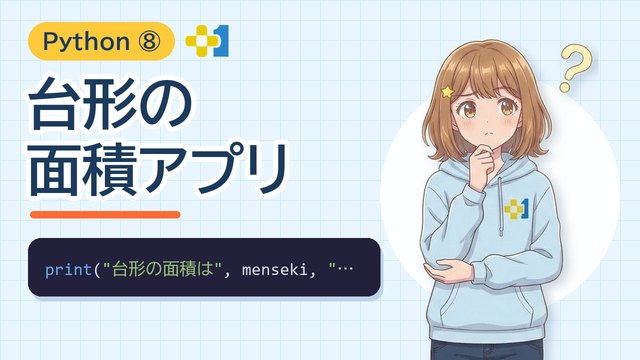
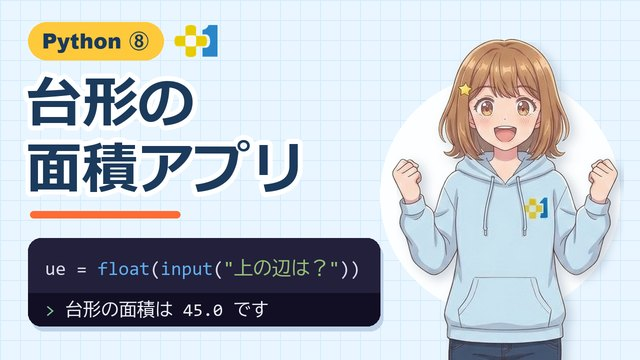
Python ナビ：ステップ8「台形の面積アプリ」の新しい動画を登録・仕上げ5問を新しく・float がないときのエラーの説明
- steps.json：見出し4つ（質問を3つ書く・計算すると…？・float で数にする・文といっしょに出す）＋チャレンジ3つ（正方形・おこづかい・三角形）。動画 BCCNZZnfwi0（限定公開）
- 仕上げ5問：FRESH[8]（入れた数で計算・float がないと？・エラーを直そう・カンマでならべる・長方形の面積）
- friendlyError：文字のまま計算したとき「文字のままでは計算できないよ。float( ) で数にしよう」（動画と同じ説明）

diff --git a/src/data/navi/finishSteps.ts b/src/data/navi/finishSteps.ts
@@ -58,7 +58,7 @@ export const finishStepLessons: Lesson[] = [
     "unitNumber": 31,
     "subNumber": 8,
     "title": "ステップ8の仕上げ",
-    "description": "input で聞いて、答えを計算に使おう",
+    "description": "input で数を聞いて、float で計算できる数にしよう",
     "difficulty": "かんたん"
   },
   {
@@ -1392,60 +1392,60 @@ export const finishStepMissions: Record<string, Mission[]> = {
     {
       "id": 1,
       "type": "quiz",
-      "title": "入れた答えを出す",
-      "description": "このコードで「いちか」と入れると、何が出る？",
-      "codeToRead": "name = input(\"名前は？\")\nprint(name, \"さん\")",
+      "title": "入れた数で計算",
+      "description": "このコードを実行して「3」と入れると、何が出る？",
+      "codeToRead": "kazu = float(input(\"数は？\"))\nprint(kazu * 2)",
       "choices": [
-        "name さん",
-        "いちか さん",
-        "名前は？ さん"
+        "6",
+        "6.0",
+        "33"
       ],
       "correctAnswer": 1,
-      "expectedOutput": "いちか さん",
-      "hint": "name には、入れた答えが入るよ。",
-      "explanation": "input で入れた「いちか」が name に入る。カンマでならべるので「いちか さん」になるよ。",
+      "expectedOutput": "6.0",
+      "hint": "float で数になった 3 を、2ばいすると…？",
+      "explanation": "float で 3 が数の 3.0 になる。3.0 * 2 で 6.0。float の数には .0 がつくよ。",
       "availableBlocks": []
     },
     {
       "id": 2,
       "type": "quiz",
-      "title": "カンマでならべる",
-      "description": "このコードを実行すると、何が出る？",
-      "codeToRead": "menseki = 45.0\nprint(\"台形の面積は\", menseki, \"です\")",
+      "title": "float がないと？",
+      "description": "このコードを実行して「2」と「3」を入れると、何が出る？",
+      "codeToRead": "a = input(\"数は？\")\nb = input(\"数は？\")\nprint(a + b)",
       "choices": [
-        "台形の面積は 45.0 です",
-        "台形の面積は menseki です",
-        "台形の面積は45.0です"
+        "23",
+        "5",
+        "5.0"
       ],
       "correctAnswer": 0,
-      "expectedOutput": "台形の面積は 45.0 です",
-      "hint": "menseki は \" \" の外。カンマのところには何が入るかな？",
-      "explanation": "menseki の中身 45.0 が出て、カンマのところにスペースが1つずつ入るよ。",
+      "expectedOutput": "23",
+      "hint": "input の答えは、数に見えても文字だったね。",
+      "explanation": "文字の 2 と 3 を + でつなぐので 23。足し算にするなら、float でかこんで数にしよう。",
       "availableBlocks": []
     },
     {
       "id": 3,
       "type": "quiz",
       "title": "エラーを直そう",
-      "description": "実行したら「SyntaxError: '(' was never closed」と出た。どう直す？",
-      "codeToRead": "katei = float(input(\"下底はいくつ？\")",
+      "description": "「4」と入れたら「TypeError」と出た。どう直す？",
+      "codeToRead": "nagasa = input(\"長さは？\")\nprint(nagasa * 3 / 2)",
       "choices": [
-        "( を1つ消す",
-        "\" をもう1つ足す",
-        "さいごに ) をもう1つ足す"
+        "nagasa を \"nagasa\" にする",
+        "3 を \"3\" にする",
+        "1行目を nagasa = float(input(\"長さは？\")) にする"
       ],
       "correctAnswer": 2,
-      "expectedOutput": "さいごに ) をもう1つ足す",
-      "hint": "( が2つあるね。) はいくつある？",
-      "explanation": "float( と input( で ( が2つ。) も2つにしないと「とじていない」エラーになるよ。",
+      "expectedOutput": "1行目を nagasa = float(input(\"長さは？\")) にする",
+      "hint": "input の答えは、まだ文字のままだよ。",
+      "explanation": "文字のままでは計算できないので TypeError。float(input(…)) で数にしてから計算しよう。",
       "availableBlocks": []
     },
     {
       "id": 4,
-      "title": "文と答えをならべる",
-      "description": "「台形の面積は 45.0 です」と表示しよう！（menseki には 45.0 が入っているよ）",
-      "expectedOutput": "台形の面積は 45.0 です",
-      "correctCode": "print(\"台形の面積は\", menseki, \"です\")",
+      "title": "カンマでならべて出す",
+      "description": "menseki には 45.0 が入っているよ。「面積は 45.0 です」と表示しよう！",
+      "expectedOutput": "面積は 45.0 です",
+      "correctCode": "print(\"面積は\", menseki, \"です\")",
       "availableBlocks": [
         {
           "id": "b0",
@@ -1461,7 +1461,7 @@ export const finishStepMissions: Record<string, Mission[]> = {
         },
         {
           "id": "b2",
-          "text": "\"台形の面積は\"",
+          "text": "\"面積は\"",
           "type": "string",
           "color": "bg-green-200"
         },
@@ -1508,109 +1508,73 @@ export const finishStepMissions: Record<string, Mission[]> = {
     },
     {
       "id": 5,
-      "title": "台形の面積を計算",
-      "description": "（上底 + 下底）× 高さ ÷ 2 を menseki に入れて、表示しよう！",
-      "expectedOutput": "45.0",
-      "correctCode": "menseki = (jotei + katei) * takasa / 2\nprint(menseki)",
+      "title": "長方形の面積",
+      "description": "tate と yoko には、float で数にした 4.0 と 6.0 が入っているよ。「面積は 24.0」と表示しよう！",
+      "expectedOutput": "面積は 24.0",
+      "correctCode": "print(\"面積は\", tate * yoko)",
       "availableBlocks": [
         {
           "id": "b0",
-          "text": "menseki",
-          "type": "variable",
-          "color": "bg-sky-200"
-        },
-        {
-          "id": "b1",
-          "text": "=",
-          "type": "operator",
-          "color": "bg-orange-200"
-        },
-        {
-          "id": "b2",
-          "text": "(",
-          "type": "bracket",
-          "color": "bg-gray-200"
-        },
-        {
-          "id": "b3",
-          "text": "jotei",
-          "type": "variable",
-          "color": "bg-sky-200"
-        },
-        {
-          "id": "b4",
-          "text": "+",
-          "type": "operator",
-          "color": "bg-orange-200"
-        },
-        {
-          "id": "b5",
-          "text": "katei",
-          "type": "variable",
-          "color": "bg-sky-200"
-        },
-        {
-          "id": "b6",
-          "text": ")",
-          "type": "bracket",
-          "color": "bg-gray-200"
-        },
-        {
-          "id": "b7",
-          "text": "*",
-          "type": "operator",
-          "color": "bg-orange-200"
-        },
-        {
-          "id": "b8",
-          "text": "takasa",
-          "type": "variable",
-          "color": "bg-sky-200"
-        },
-        {
-          "id": "b9",
-          "text": "/",
-          "type": "operator",
-          "color": "bg-orange-200"
-        },
-        {
-          "id": "b10",
-          "text": "2",
-          "type": "number",
-          "color": "bg-yellow-100"
-        },
-        {
-          "id": "nl11",
-          "text": "↵",
-          "type": "newline",
-          "color": "bg-pink-200"
-        },
-        {
-          "id": "b12",
           "text": "print",
           "type": "function",
           "color": "bg-yellow-200"
         },
         {
-          "id": "b13",
-          "text": "×",
+          "id": "b1",
+          "text": "(",
+          "type": "bracket",
+          "color": "bg-gray-200"
+        },
+        {
+          "id": "b2",
+          "text": "\"面積は\"",
+          "type": "string",
+          "color": "bg-green-200"
+        },
+        {
+          "id": "b3",
+          "text": ",",
+          "type": "separator",
+          "color": "bg-purple-200"
+        },
+        {
+          "id": "b4",
+          "text": "tate",
+          "type": "variable",
+          "color": "bg-sky-200"
+        },
+        {
+          "id": "b5",
+          "text": "*",
           "type": "operator",
           "color": "bg-orange-200"
+        },
+        {
+          "id": "b6",
+          "text": "yoko",
+          "type": "variable",
+          "color": "bg-sky-200"
+        },
+        {
+          "id": "b7",
+          "text": ")",
+          "type": "bracket",
+          "color": "bg-gray-200"
+        },
+        {
+          "id": "b8",
+          "text": "tate + yoko",
+          "type": "variable",
+          "color": "bg-sky-200"
         }
       ],
-      "prefixCode": "jotei = 5.0\nkatei = 10.0\ntakasa = 6.0",
+      "prefixCode": "tate = 4.0\nyoko = 6.0",
       "rules": [
         {
           "forbids": [
-            "×"
+            "tate + yoko"
           ],
-          "message": "かけ算は × ではなく、* で書くよ！"
-        },
-        {
-          "requires": [
-            "("
-          ],
-          "message": "上底と下底を先に足すので、( ) でかこもう！"
+          "message": "長方形の面積は、たて × よこ（*）だよ！"
         }
       ]
     }
@@ -5972,7 +5936,7 @@ export const finishStepTutorials: LessonTutorial[] = [
         "content": "さっきの動画で習ったことを、5問でたしかめます。結果を予想する問題・まちがいを直す問題・ブロックをならべる問題があります。",
         "characterMessage": "わからなくなったら、ヒントを見てね。",
         "codeExample": {
-          "good": "name = input(\"名前は？\")\nprint(name)"
+          "good": "ue = float(input(\"上の辺は？\"))  # 数にして箱に入れる"
         }
       }
     ]

diff --git a/src/lib/navi/friendlyError.ts b/src/lib/navi/friendlyError.ts
@@ -37,6 +37,9 @@ export function friendlyError(err: PyError): string {
   if (type === 'TypeError') {
     if (message.includes('can only concatenate str') || message.includes("unsupported operand type(s) for +: 'int' and 'str'"))
       return `${where}：文字と数は + でつなげないよ。数も " " でかこもう`
+    // input の答え（文字）のまま計算したとき（ステップ8：(ue + shita) * takasa など・動画と同じ説明）
+    if (message.includes("can't multiply sequence") || (message.includes('unsupported operand') && message.includes("'str'")))
+      return `${where}：文字のままでは計算できないよ。float( ) で数にしよう`
     if (message.includes('takes') && message.includes('positional argument'))
       return `${where}：関数に渡すもの（引数）の数が合っていないよ`
     if (message.includes('not callable')) return `${where}：( ) をつけて呼べないものに ( ) がついているよ`

diff --git a/scripts/build-navi-finish.py b/scripts/build-navi-finish.py
@@ -560,6 +560,26 @@ FRESH = {
           prefix='namae = "ゆうと"\ndoubutsu = "イヌ"',
           rules=[("forbids", ['"doubutsu"'], "\" \" でかこむと、箱の中身ではなく文字のまま出るよ！")]),
     ]),
+    8: dict(desc="input で数を聞いて、float で計算できる数にしよう", example='ue = float(input("上の辺は？"))  # 数にして箱に入れる', qs=[
+        Q("入れた数で計算", 'kazu = float(input("数は？"))\nprint(kazu * 2)', "6.0", ["6", "33"],
+          "float で数になった 3 を、2ばいすると…？", "float で 3 が数の 3.0 になる。3.0 * 2 で 6.0。float の数には .0 がつくよ。",
+          desc="このコードを実行して「3」と入れると、何が出る？", run=False),
+        Q("float がないと？", 'a = input("数は？")\nb = input("数は？")\nprint(a + b)', "23", ["5", "5.0"],
+          "input の答えは、数に見えても文字だったね。",
+          "文字の 2 と 3 を + でつなぐので 23。足し算にするなら、float でかこんで数にしよう。",
+          desc="このコードを実行して「2」と「3」を入れると、何が出る？", run=False),
+        Q("エラーを直そう", 'nagasa = input("長さは？")\nprint(nagasa * 3 / 2)', '1行目を nagasa = float(input("長さは？")) にする',
+          ['nagasa を "nagasa" にする', '3 を "3" にする'],
+          "input の答えは、まだ文字のままだよ。",
+          "文字のままでは計算できないので TypeError。float(input(…)) で数にしてから計算しよう。",
+          desc="「4」と入れたら「TypeError」と出た。どう直す？", run=False),
+        B("カンマでならべて出す", "menseki には 45.0 が入っているよ。「面積は 45.0 です」と表示しよう！",
+          'print("面積は", menseki, "です")', "面積は 45.0 です", extra=['"menseki"'], prefix="menseki = 45.0",
+          rules=[("forbids", ['"menseki"'], "\" \" でかこむと、箱の中身ではなく文字のまま出るよ！")]),
+        B("長方形の面積", "tate と yoko には、float で数にした 4.0 と 6.0 が入っているよ。「面積は 24.0」と表示しよう！",
+          'print("面積は", tate * yoko)', "面積は 24.0", extra=["tate + yoko"], prefix="tate = 4.0\nyoko = 6.0",
+          rules=[("forbids", ["tate + yoko"], "長方形の面積は、たて × よこ（*）だよ！")]),
+    ]),
 }
 
 NEW_STEP = {2: 5, 3: 8, 4: 9, 5: 10, 6: 11, 7: 14, 8: 16, 9: 18, 10: 23, 11: 25, 12: 28, 13: 33, 14: 35, 15: 37,
